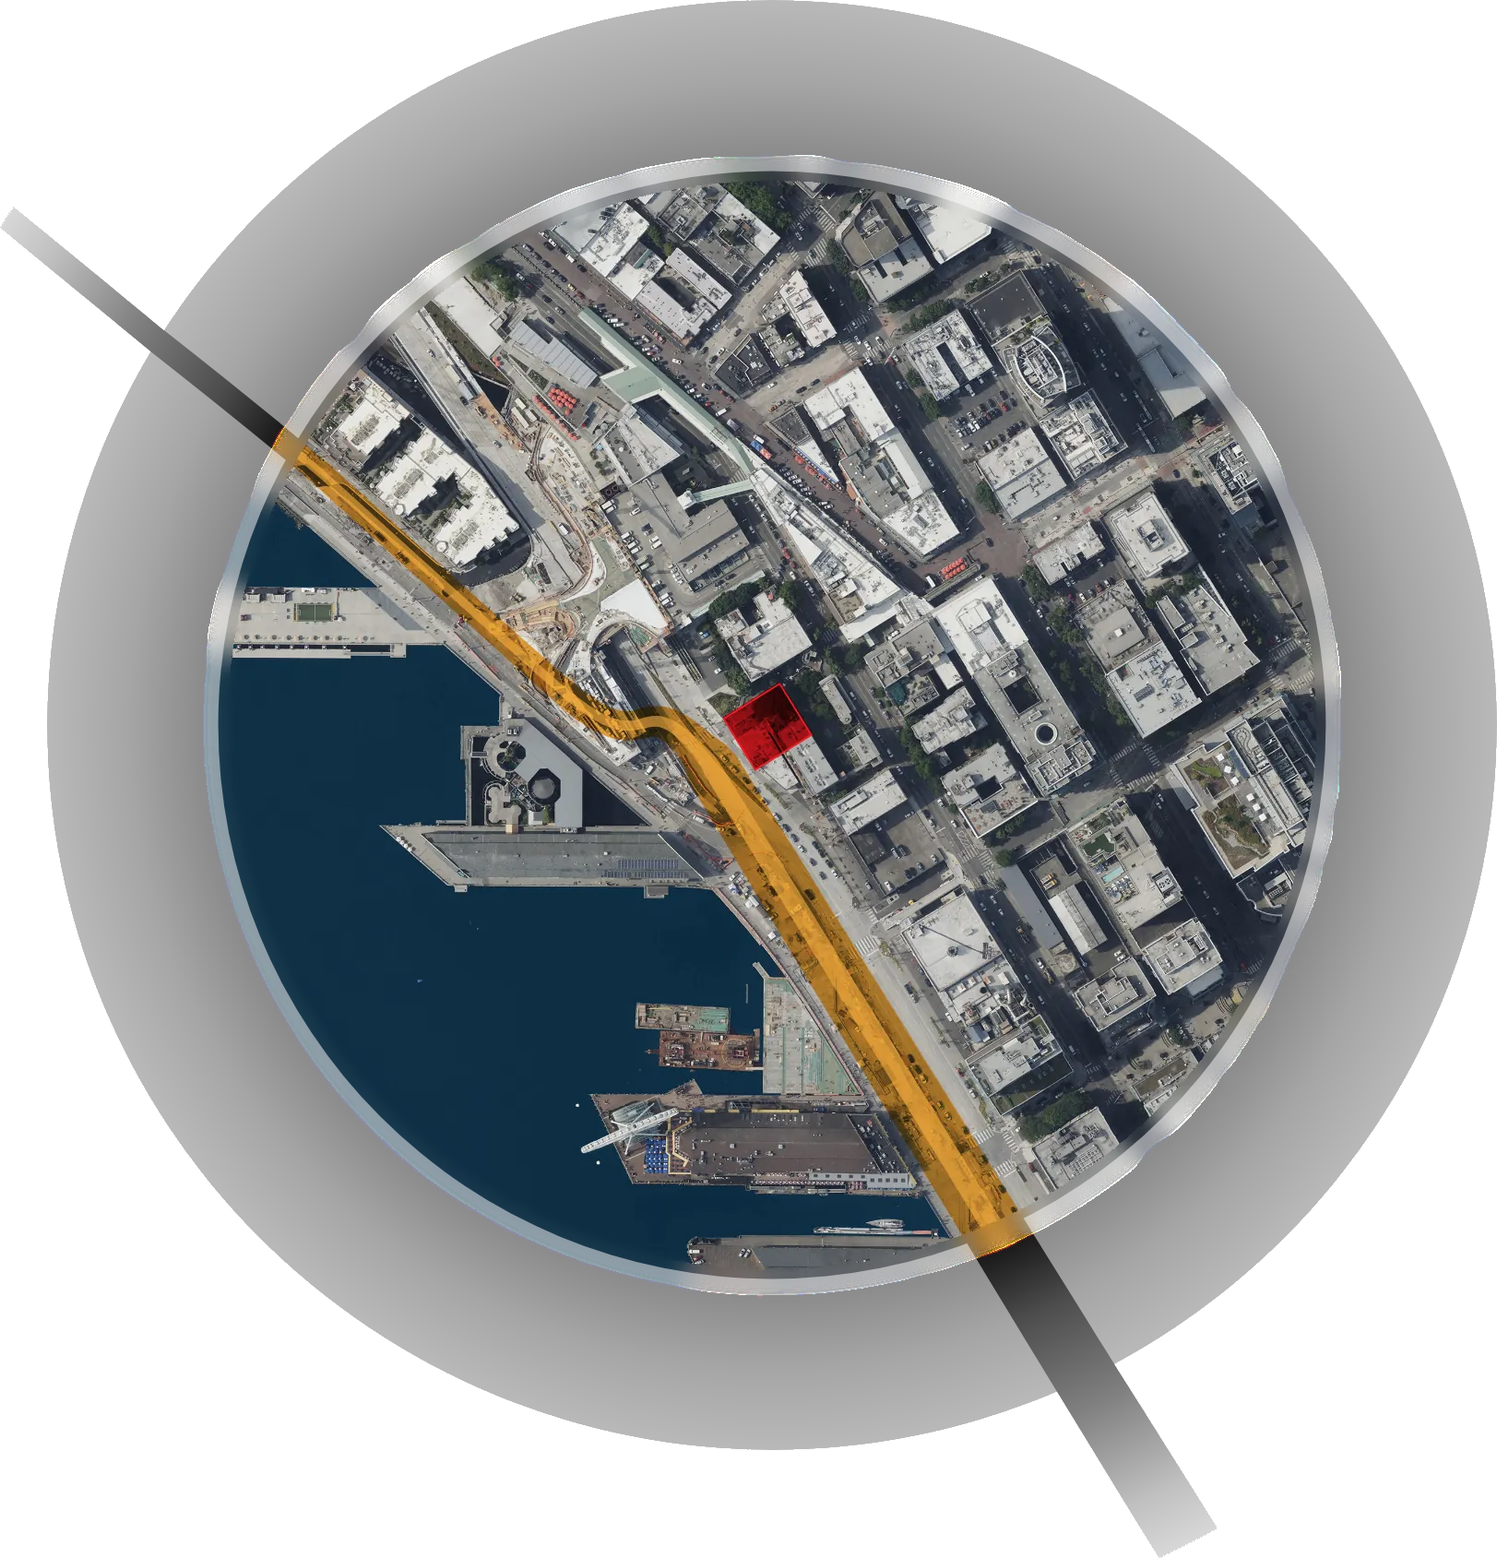
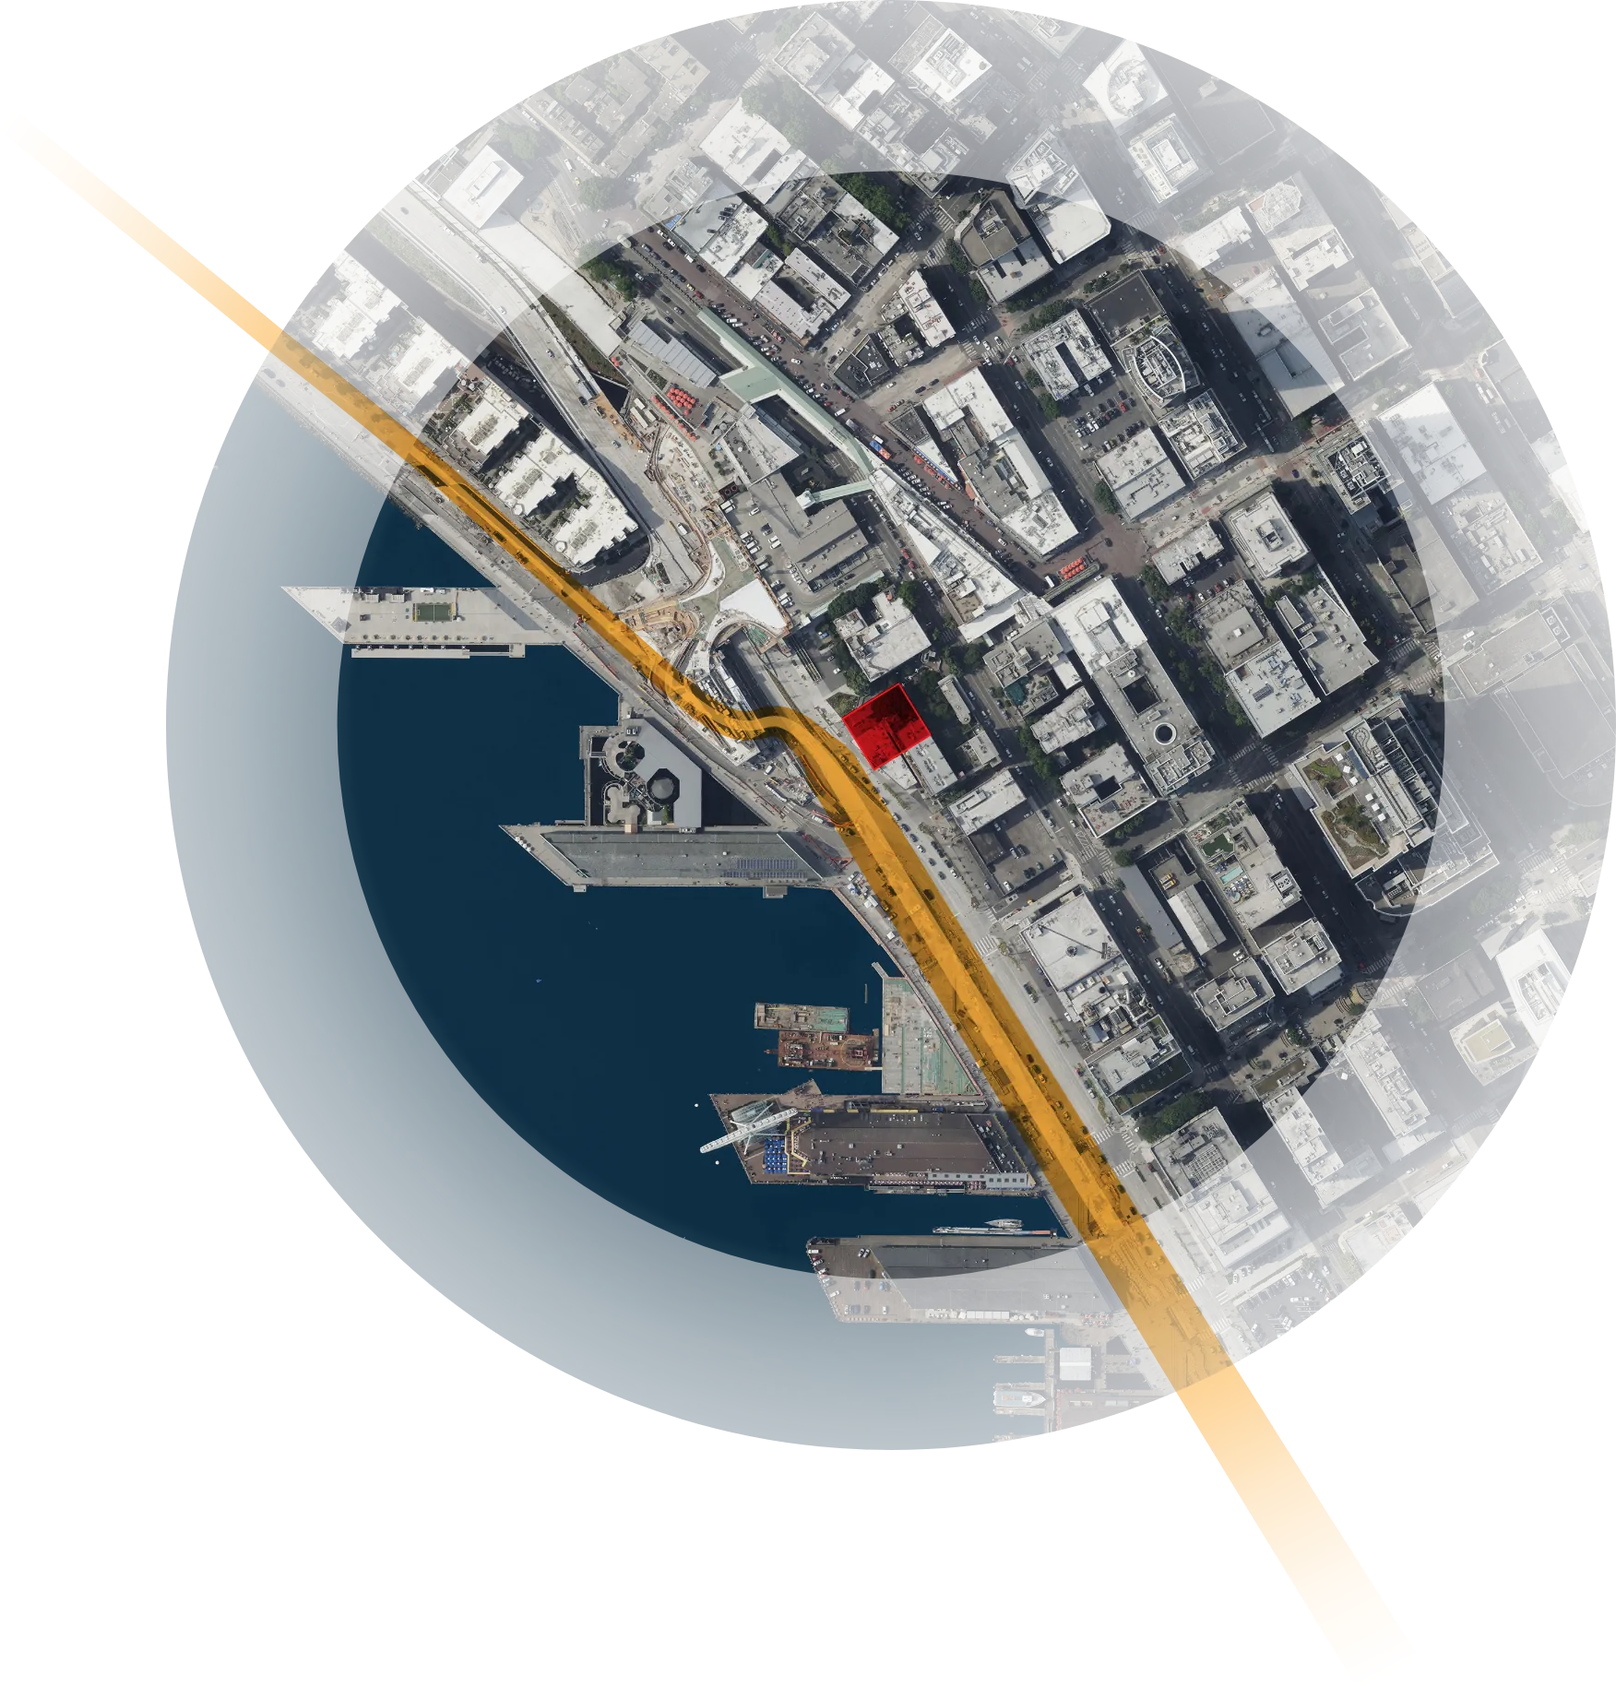
BRIDGE1400: coded site-map callouts and a mass timber section
- Site map callouts built in HTML/CSS/SVG: label band, dotted elbow leaders
  and end dots, positions fitted from the portfolio (Overlook Walk, Pike Place
  Market, Site, Alaskan Way). Phones get numbered dots and a numbered list.
- New Mass timber section with the design study figures (CLT storage rate,
  timber per floor area, estimated CO2 stored).
- Site map web image regenerated without edge darkening: the headshot halo
  cleanup now runs on the headshot only.

diff --git a/docs/work/bridge1400/index.html b/docs/work/bridge1400/index.html
@@ -39,7 +39,7 @@
     <dl class="meta"><div><dt>Type</dt><dd>Mixed-use hotel</dd></div><div><dt>Location</dt><dd>Seattle, WA</dd></div><div><dt>Year</dt><dd>2025</dd></div><div><dt>Context</dt><dd>Graduate studio, WSU</dd></div><div><dt>Role</dt><dd>Sole designer</dd></div><div><dt>Tools</dt><dd>Revit, D5 Render, AutoCAD, Photoshop, Illustrator, Google Earth Studio</dd></div></dl>
     <div class="intro-text"><p>Bridge1400 sits on the threshold between Seattle&#x27;s mercantile downtown and its waterfront. Instead of smoothing over that break, the project makes it spatial: a tall void cuts through the podium as a civic canyon linking Alaskan Way to Western Avenue.</p><p>A grand stair works as both passage and pause, and a slow ramp climbs past planted terraces with filtered views of Elliott Bay. Above the four-level retail and lobby podium, a mass timber hotel tower frames the water to the northwest and the city to the southeast.</p><div class="facts"><div class="fact"><span>Levels</span><strong>13</strong></div><div class="fact"><span>Structure</span><strong>Mass timber tower over podium</strong></div><div class="fact"><span>Program</span><strong>Retail, hotel lobby, restaurants, pool, 9 guest-room levels</strong></div></div></div>
   </section>
-  <section class="chapter reveal"><div class="chapter-text"><h2>Site</h2><p>Between Pike Place Market and the waterfront promenade, the site takes its cues from both: vertical density to the east, openness and movement to the west.</p></div><div class="chapter-figs"><figure class="zoom"><img class="" src="../../assets/img/bridge1400/site-1200.webp" srcset="../../assets/img/bridge1400/site-1200.webp 1200w, ../../assets/img/bridge1400/site-2400.webp 2400w" sizes="(min-width: 1400px) 1400px, 100vw" width="1623" height="1689" alt="Site context: downtown Seattle and Elliott Bay" loading="lazy" decoding="async"><figcaption>Site context: downtown Seattle and Elliott Bay</figcaption></figure></div></section><section class="chapter reveal"><div class="chapter-text"><h2>Form</h2><p>Eight moves shape the block: a full zoning envelope, a daylight cut along Alaskan Way, an interlocking sloped tower, podium voids for entry and egress, a central atrium and the experiential ramp from Level 4 to Level 5.</p></div><div class="chapter-figs"><figure class="zoom"><img class="" src="../../assets/img/bridge1400/massing-1200.webp" srcset="../../assets/img/bridge1400/massing-1200.webp 1200w, ../../assets/img/bridge1400/massing-2400.webp 2400w" sizes="(min-width: 1400px) 1400px, 100vw" width="3200" height="1600" alt="Massing sequence and waterfront-to-city diagram" loading="lazy" decoding="async"><figcaption>Massing sequence and waterfront-to-city diagram</figcaption></figure></div></section><section class="chapter reveal"><div class="chapter-text"><h2>Plans</h2><p>Retail activates the first two levels. The hotel lobby, restaurants and an infinity pool fill the podium, and guest rooms stack above with terraces and a sky lounge.</p></div><div class="chapter-figs"><figure class="zoom"><img class="" src="../../assets/img/bridge1400/plans-1200.webp" srcset="../../assets/img/bridge1400/plans-1200.webp 1200w, ../../assets/img/bridge1400/plans-2400.webp 2400w" sizes="(min-width: 1400px) 1400px, 100vw" width="3200" height="1600" alt="Floor plans, Levels 1 to 13" loading="lazy" decoding="async"><figcaption>Floor plans, Levels 1 to 13</figcaption></figure></div></section><section class="chapter reveal"><div class="chapter-text"><h2>Sections</h2><p>Double-height retail glazing, a restaurant stair through a central void, and the pool-to-bar ramp are read together in section. Rooftop and facade PV, greywater reuse and rainwater harvesting are sized in the performance study.</p></div><div class="chapter-figs"><figure class="zoom"><img class="" src="../../assets/img/bridge1400/section-aa-1200.webp" srcset="../../assets/img/bridge1400/section-aa-1200.webp 1200w, ../../assets/img/bridge1400/section-aa-2400.webp 2400w" sizes="(min-width: 1400px) 1400px, 100vw" width="3200" height="1600" alt="Section AA" loading="lazy" decoding="async"><figcaption>Section AA</figcaption></figure><figure class="zoom"><img class="" src="../../assets/img/bridge1400/section-bb-1200.webp" srcset="../../assets/img/bridge1400/section-bb-1200.webp 1200w, ../../assets/img/bridge1400/section-bb-2400.webp 2400w" sizes="(min-width: 1400px) 1400px, 100vw" width="3200" height="1600" alt="Section BB with energy, water and carbon study" loading="lazy" decoding="async"><figcaption>Section BB with energy, water and carbon study</figcaption></figure></div></section>
+  <section class="chapter reveal"><div class="chapter-text"><h2>Site</h2><p>Between Pike Place Market and the waterfront promenade, the site takes its cues from both: vertical density to the east, openness and movement to the west.</p></div><div class="chapter-figs"><figure class="callout-map"><div class="callout-stage" style="--ar:1752/2110;--ar-img:1752/1830;--img-top:13.27%;--img-h:86.73%"><img class="callout-img" src="../../assets/img/bridge1400/site-1200.webp" srcset="../../assets/img/bridge1400/site-1200.webp 1200w, ../../assets/img/bridge1400/site-2400.webp 2400w" sizes="(min-width: 960px) 900px, 100vw" width="1752" height="1830" alt="Site context: downtown Seattle and Elliott Bay" loading="lazy" decoding="async"><svg class="callout-lines" viewBox="0 0 1752 2110" preserveAspectRatio="none" aria-hidden="true"><path vector-effect="non-scaling-stroke" d="M219.0,154.0 V190.4 H492.3 V808.9"/><path vector-effect="non-scaling-stroke" d="M657.0,154.0 V212.8 H678.0 V463.0"/><path vector-effect="non-scaling-stroke" d="M1095.0,154.0 V235.2 H956.6 V1077.9"/><path vector-effect="non-scaling-stroke" d="M1533.0,154.0 V257.6 H1226.4 V1661.7"/></svg><span class="callout-dot" data-n="1" style="left:28.10%;--ty:38.34%;--ty-img:28.90%"></span><span class="callout-dot" data-n="2" style="left:38.70%;--ty:21.94%;--ty-img:10.00%"></span><span class="callout-dot" data-n="3" style="left:54.60%;--ty:51.08%;--ty-img:43.60%"></span><span class="callout-dot" data-n="4" style="left:70.00%;--ty:78.75%;--ty-img:75.50%"></span><span class="callout-label" style="left:12.50%;top:7.30%"><strong>Overlook Walk</strong><small>Market-to-waterfront link, opened 2024</small></span><span class="callout-label" style="left:37.50%;top:7.30%"><strong>Pike Place Market</strong><small>Public market since 1907</small></span><span class="callout-label" style="left:62.50%;top:7.30%"><strong>Site</strong><small>Western Ave and Union St</small></span><span class="callout-label" style="left:87.50%;top:7.30%"><strong>Alaskan Way</strong><small>Waterfront boulevard</small></span></div><ol class="callout-legend"><li><strong>Overlook Walk</strong> Market-to-waterfront link, opened 2024</li><li><strong>Pike Place Market</strong> Public market since 1907</li><li><strong>Site</strong> Western Ave and Union St</li><li><strong>Alaskan Way</strong> Waterfront boulevard</li></ol><figcaption>Site context: downtown Seattle and Elliott Bay</figcaption></figure></div></section><section class="chapter reveal"><div class="chapter-text"><h2>Form</h2><p>Eight moves shape the block: a full zoning envelope, a daylight cut along Alaskan Way, an interlocking sloped tower, podium voids for entry and egress, a central atrium and the experiential ramp from Level 4 to Level 5.</p></div><div class="chapter-figs"><figure class="zoom"><img class="" src="../../assets/img/bridge1400/massing-1200.webp" srcset="../../assets/img/bridge1400/massing-1200.webp 1200w, ../../assets/img/bridge1400/massing-2400.webp 2400w" sizes="(min-width: 1400px) 1400px, 100vw" width="3200" height="1600" alt="Massing sequence and waterfront-to-city diagram" loading="lazy" decoding="async"><figcaption>Massing sequence and waterfront-to-city diagram</figcaption></figure></div></section><section class="chapter reveal"><div class="chapter-text"><h2>Mass timber</h2><p>Above the four-level podium, the hotel tower is built in mass timber. Exposed wood gives the guest rooms warmth and quiet, carries the project&#x27;s biophilic approach, and echoes the timber and glass of the working waterfront. Timber also stores carbon instead of emitting it, which the design study estimates below.</p><div class="facts"><div class="fact"><span>CO2 stored per m3 of CLT</span><strong>~0.9 t</strong></div><div class="fact"><span>Structural timber per ft2 of floor</span><strong>7.5 ft3</strong></div><div class="fact"><span>CO2 stored in the tower (estimate)</span><strong>~5,000 US tons</strong></div></div><p class="small">CLT storage rate from WoodWorks and the U.S. Forest Service, as cited in the design study.</p></div><div class="chapter-figs"></div></section><section class="chapter reveal"><div class="chapter-text"><h2>Plans</h2><p>Retail activates the first two levels. The hotel lobby, restaurants and an infinity pool fill the podium, and guest rooms stack above with terraces and a sky lounge.</p></div><div class="chapter-figs"><figure class="zoom"><img class="" src="../../assets/img/bridge1400/plans-1200.webp" srcset="../../assets/img/bridge1400/plans-1200.webp 1200w, ../../assets/img/bridge1400/plans-2400.webp 2400w" sizes="(min-width: 1400px) 1400px, 100vw" width="3200" height="1600" alt="Floor plans, Levels 1 to 13" loading="lazy" decoding="async"><figcaption>Floor plans, Levels 1 to 13</figcaption></figure></div></section><section class="chapter reveal"><div class="chapter-text"><h2>Sections</h2><p>Double-height retail glazing, a restaurant stair through a central void, and the pool-to-bar ramp are read together in section. Rooftop and facade PV, greywater reuse and rainwater harvesting are sized in the performance study.</p></div><div class="chapter-figs"><figure class="zoom"><img class="" src="../../assets/img/bridge1400/section-aa-1200.webp" srcset="../../assets/img/bridge1400/section-aa-1200.webp 1200w, ../../assets/img/bridge1400/section-aa-2400.webp 2400w" sizes="(min-width: 1400px) 1400px, 100vw" width="3200" height="1600" alt="Section AA" loading="lazy" decoding="async"><figcaption>Section AA</figcaption></figure><figure class="zoom"><img class="" src="../../assets/img/bridge1400/section-bb-1200.webp" srcset="../../assets/img/bridge1400/section-bb-1200.webp 1200w, ../../assets/img/bridge1400/section-bb-2400.webp 2400w" sizes="(min-width: 1400px) 1400px, 100vw" width="3200" height="1600" alt="Section BB with energy, water and carbon study" loading="lazy" decoding="async"><figcaption>Section BB with energy, water and carbon study</figcaption></figure></div></section>
   <a class="next" href="../../work/professional-work/"><span>Next project</span><strong>Professional Work</strong></a>
 </article>
 </main>

diff --git a/docs/assets/css/style.css b/docs/assets/css/style.css
@@ -174,6 +174,34 @@ figcaption { font-size: .85rem; color: var(--ink-2); margin-top: .6rem; }
 .film video { display: block; width: 100%; height: auto; aspect-ratio: 16 / 9; background: #000; border-radius: 4px; object-fit: cover; }
 .film figcaption strong { display: block; color: var(--ink); font-weight: 500; font-size: 1.05rem; }
 
+/* Coded map callouts (BRIDGE1400 site): label band, dotted elbow leaders, end dots */
+/* width:100% matters: as a grid item with auto margins it would otherwise shrink to its caption's width */
+.callout-map { width: 100%; max-width: 900px; margin: 0 auto; }
+.callout-stage { position: relative; width: 100%; aspect-ratio: var(--ar); }
+.callout-stage .callout-img { position: absolute; left: 0; top: var(--img-top); width: 100%; height: var(--img-h); object-fit: contain; }
+.callout-lines { position: absolute; inset: 0; width: 100%; height: 100%; overflow: visible; pointer-events: none; color: var(--ink); }
+.callout-lines path { fill: none; stroke: currentColor; stroke-width: 1; stroke-dasharray: 2 3; opacity: .75; }
+.callout-dot { position: absolute; top: var(--ty); width: 9px; height: 9px; margin: -4.5px 0 0 -4.5px; border-radius: 50%;
+  background: var(--ink); box-shadow: 0 0 0 2px var(--bg); }
+.callout-label { position: absolute; transform: translate(-50%, -100%); width: max-content; max-width: 23%; padding: .35rem .55rem;
+  border: 1px dashed color-mix(in srgb, var(--ink) 50%, transparent); background: var(--bg); text-align: center; line-height: 1.2; }
+.callout-label strong { display: block; font-size: .8rem; font-weight: 600; color: var(--ink); }
+.callout-label small { display: block; margin-top: .15rem; font-size: .68rem; color: var(--ink-2); }
+.callout-legend { display: none; }
+@media (max-width: 700px) {
+  .callout-stage { aspect-ratio: var(--ar-img); }
+  .callout-stage .callout-img { top: 0; height: 100%; }
+  .callout-lines, .callout-label { display: none; }
+  .callout-dot { top: var(--ty-img); width: 20px; height: 20px; margin: -10px 0 0 -10px; display: grid; place-items: center;
+    color: var(--bg); font-size: 11px; font-weight: 600; }
+  .callout-dot::after { content: attr(data-n); }
+  .callout-legend { display: grid; gap: .45rem; list-style: none; counter-reset: callout; padding: 0; margin: 1rem 0 0; }
+  .callout-legend li { counter-increment: callout; font-size: .92rem; color: var(--ink-2); }
+  .callout-legend li strong { color: var(--ink); font-weight: 600; }
+  .callout-legend li::before { content: counter(callout); display: inline-grid; place-items: center; width: 1.35rem; height: 1.35rem;
+    margin-right: .5rem; border-radius: 50%; background: var(--ink); color: var(--bg); font-size: .72rem; font-weight: 600; }
+}
+
 .gallery { max-width: var(--max); margin: 0 auto; padding: 0 var(--pad) clamp(3.5rem, 8vw, 6rem); }
 .gallery h2, .table-wrap h2 { font-size: clamp(1.6rem, 3vw, 2.4rem); border-top: 1px solid var(--line); padding-top: 1.25rem; margin-bottom: 2rem; }
 .masonry { columns: 2 220px; column-gap: 1.25rem; }

diff --git a/tools/build.py b/tools/build.py
@@ -198,6 +198,39 @@ def home():
     write("index.html", page(f"{site['name']} | {site['title']}", site["tagline"], "", body))
 
 
+def callout_figure(project, name, cap, base, items):
+    """Map with coded callouts: label boxes in a band above the image, dotted elbow leaders, end dots.
+
+    items: [{"label", "note", "x", "y"}], x/y = target as % of the image.
+    Phones (CSS) hide the labels and leaders, number the dots and show a numbered list instead.
+    """
+    s = sizes.get(f"{project}/{name}", {"w": 1600, "h": 1600})
+    w, h = s["w"], s["h"]
+    band = round(w * 0.16)          # label band above the image, in image pixels
+    H = h + band                    # stage height
+    items = sorted(items, key=lambda c: c["x"])  # labels left-to-right in target order
+    label_bottom = band * 0.55
+    lines, dots, labels, legend = [], [], [], []
+    for i, c in enumerate(items):
+        lx = (i + 0.5) / len(items) * 100        # evenly spaced label centres (% width)
+        tx, ty = c["x"] / 100 * w, band + c["y"] / 100 * h
+        jog = band * (0.68 + 0.08 * i)           # staggered horizontal runs
+        lines.append(f'<path vector-effect="non-scaling-stroke" '
+                     f'd="M{lx / 100 * w:.1f},{label_bottom:.1f} V{jog:.1f} H{tx:.1f} V{ty:.1f}"/>')
+        dots.append(f'<span class="callout-dot" data-n="{i + 1}" style="left:{c["x"]:.2f}%;'
+                    f'--ty:{ty / H * 100:.2f}%;--ty-img:{c["y"]:.2f}%"></span>')
+        labels.append(f'<span class="callout-label" style="left:{lx:.2f}%;top:{label_bottom / H * 100:.2f}%">'
+                      f'<strong>{e(c["label"])}</strong><small>{e(c["note"])}</small></span>')
+        legend.append(f'<li><strong>{e(c["label"])}</strong> {e(c["note"])}</li>')
+    style = (f"--ar:{w}/{H};--ar-img:{w}/{h};--img-top:{band / H * 100:.2f}%;--img-h:{h / H * 100:.2f}%")
+    return (f'<figure class="callout-map"><div class="callout-stage" style="{style}">'
+            f'{img(project, name, cap, base, cls="callout-img", sizes_attr="(min-width: 960px) 900px, 100vw")}'
+            f'<svg class="callout-lines" viewBox="0 0 {w} {H}" preserveAspectRatio="none" aria-hidden="true">'
+            f'{"".join(lines)}</svg>{"".join(dots)}{"".join(labels)}</div>'
+            f'<ol class="callout-legend">{"".join(legend)}</ol>'
+            f"<figcaption>{e(cap)}</figcaption></figure>")
+
+
 def project(i, p):
     base = "../../"
     slug = p["slug"]
@@ -207,10 +240,17 @@ def project(i, p):
     facts = "".join(f'<div class="fact"><span>{e(k)}</span><strong>{e(v)}</strong></div>' for k, v in p.get("facts", []))
     parts = []
     for s in p.get("sections", []):
+        callouts = s.get("callouts", {})
         figs = "".join(
+            callout_figure(slug, n, cap, base, callouts[n]) if n in callouts else
             f'<figure class="zoom">{img(slug, n, cap, base, sizes_attr="(min-width: 1400px) 1400px, 100vw")}'
-            f"<figcaption>{e(cap)}</figcaption></figure>" for n, cap in s["images"])
+            f"<figcaption>{e(cap)}</figcaption></figure>" for n, cap in s.get("images", []))
         text = f"<p>{e(s['text'])}</p>" if s["text"] else ""
+        if s.get("stats"):
+            text += '<div class="facts">' + "".join(
+                f'<div class="fact"><span>{e(k)}</span><strong>{e(v)}</strong></div>' for v, k in s["stats"]) + "</div>"
+        if s.get("note"):
+            text += f'<p class="small">{e(s["note"])}</p>'
         parts.append(f'<section class="chapter reveal"><div class="chapter-text"><h2>{e(s["heading"])}</h2>{text}</div>'
                      f'<div class="chapter-figs">{figs}</div></section>')
     if p.get("videos"):

diff --git a/tools/prepare_images.py b/tools/prepare_images.py
@@ -20,6 +20,8 @@ MANIFEST = os.path.join(ROOT, "content", "images.json")
 WIDTHS = (1200, 2400)
 # transparent images to trim to their visible pixels (headshot circle has empty margins)
 CROP_TO_CONTENT = {"Headshot.psd", "site-transparent.png"}
+# hair-edge halo cleanup only: it recolours semi-transparent pixels, which would darken soft fades (site map)
+DECONTAMINATE = {"Headshot.psd"}
 
 # project -> list of (output name, source). Source is a Links filename or "pdf:<page>".
 IMAGES = {
@@ -127,7 +129,8 @@ def load(src, doc):
     if im.mode in ("RGBA", "LA", "P"):
         im = im.convert("RGBA")
         if os.path.basename(src) in CROP_TO_CONTENT:
-            im = decontaminate(im)
+            if os.path.basename(src) in DECONTAMINATE:
+                im = decontaminate(im)
             return im.crop(im.split()[-1].getbbox())  # keep transparency, no white fill
         bg = Image.new("RGB", im.size, "white")
         bg.paste(im, mask=im.split()[-1])
